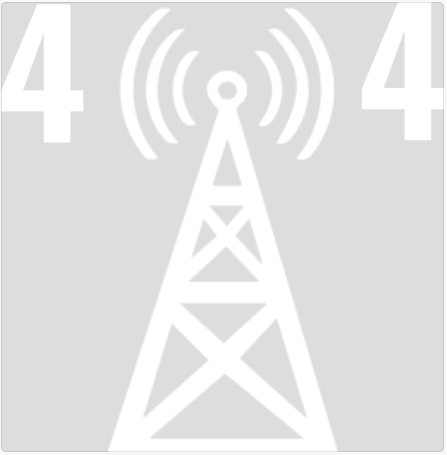
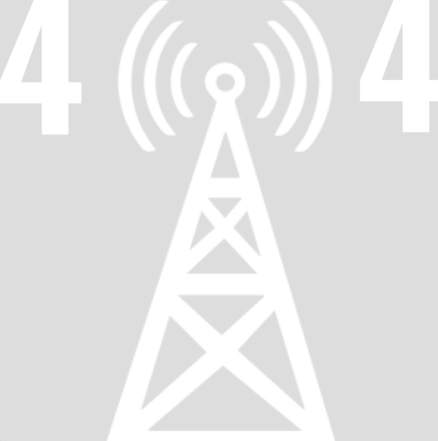
add background image to 404page.

diff --git a/themes/coop-radio/style.css b/themes/coop-radio/style.css
@@ -623,9 +623,33 @@ a {
 /*--------------------------------------------------------------
 # Front Page
 --------------------------------------------------------------*/
+.home-image {
+  background-image: url("../../images/front-page-background.jpeg"); }
+  .home-image div h1, .home-image div p {
+    color: #fff; }
+    .home-image div h1 a, .home-image div p a {
+      color: inherit; }
+
 /*--------------------------------------------------------------
 # Artist search
 --------------------------------------------------------------*/
 /*--------------------------------------------------------------
 # Single artist
 --------------------------------------------------------------*/
+.not-found {
+  height: 100vh;
+  background-color: #dddddd; }
+  .not-found .front-container {
+    display: inline-block;
+    width: 100%; }
+    .not-found .front-container img {
+      position: absolute;
+      top: 35%;
+      left: 15%; }
+    .not-found .front-container div {
+      position: absolute;
+      top: 55%;
+      right: 20%; }
+      .not-found .front-container div p {
+        color: #ffffff;
+        text-transform: uppercase; }

diff --git a/themes/coop-radio/sass/templates/_not-found.scss b/themes/coop-radio/sass/templates/_not-found.scss
@@ -1,0 +1,22 @@
+.not-found{
+    height: 100vh;
+    background-color: #dddddd;
+    .front-container{
+        display: inline-block;
+        width: 100%;
+        img{
+            position: absolute;
+            top: 35%;
+            left: 15%;
+        }
+        div{
+            position: absolute;
+            top: 55%;
+            right: 20%;
+            p{
+                color: #ffffff;
+                text-transform: uppercase;
+            }
+        }
+    }
+}

diff --git a/themes/coop-radio/sass/style.scss b/themes/coop-radio/sass/style.scss
@@ -51,4 +51,4 @@ Nicolas Gallagher and Jonathan Neal http://necolas.github.com/normalize.css/
 @import 'templates/front-page';
 @import 'templates/artist-search';
 @import 'templates/single-artist';
-@import 'templates/404';
+@import 'templates/not-found';

diff --git a/themes/coop-radio/404.php b/themes/coop-radio/404.php
@@ -9,10 +9,15 @@
 
 get_header(); ?>
 
-  <main>
-    <section>
-      <a href="<?php echo esc_url(home_url('/')); ?>">Back to Home</a>
-    </section>
+  <main class='not-found'>
+    <div class='front-container'>
+      <img src='<?php echo get_stylesheet_directory_uri().'/images/404.PNG'; ?>' alt="404 image">
+      <div>
+        <p>Oops!</p>
+        <p>Page not found</p>
+        <p><a href="<?php echo esc_url(home_url('/')); ?>">Back to Home</a></p>
+      </div>
+    </div>
   </main>
 
 <?php get_footer(); ?>
